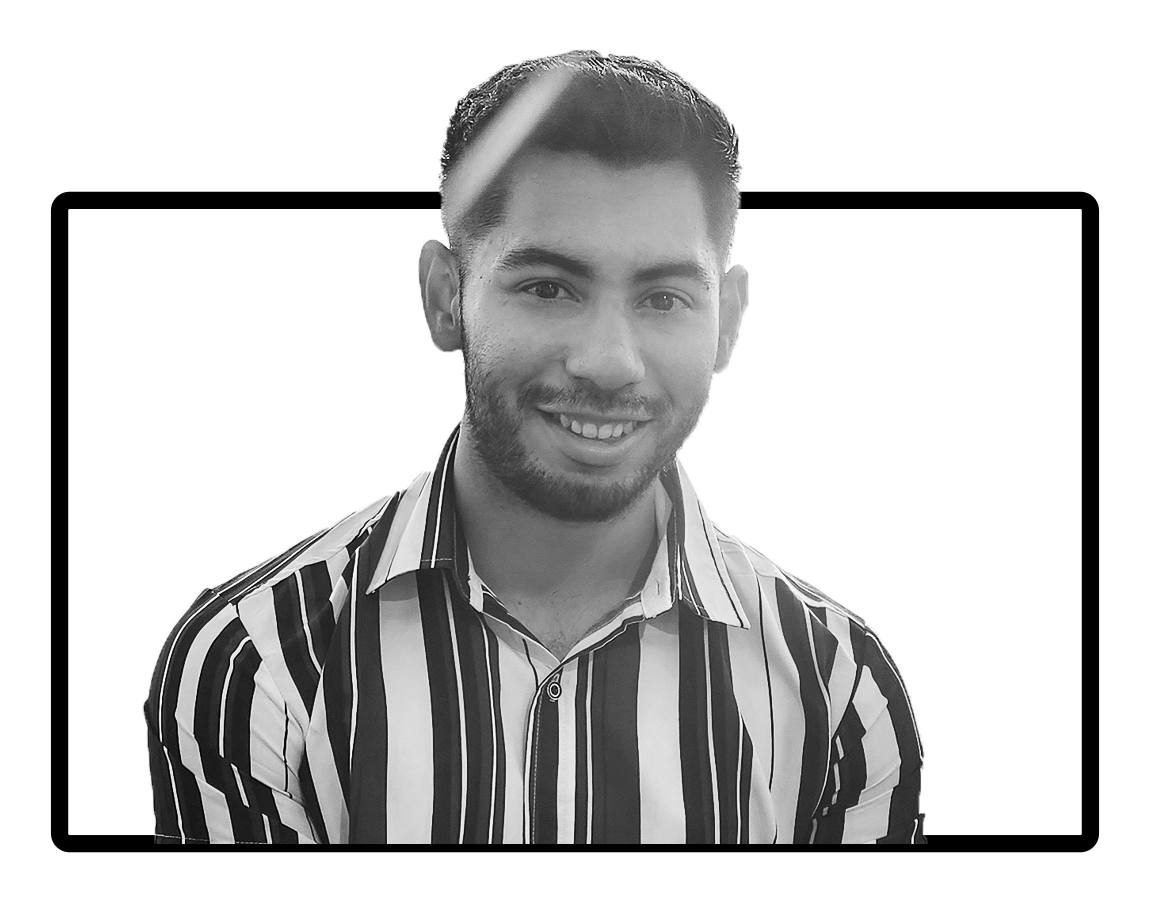
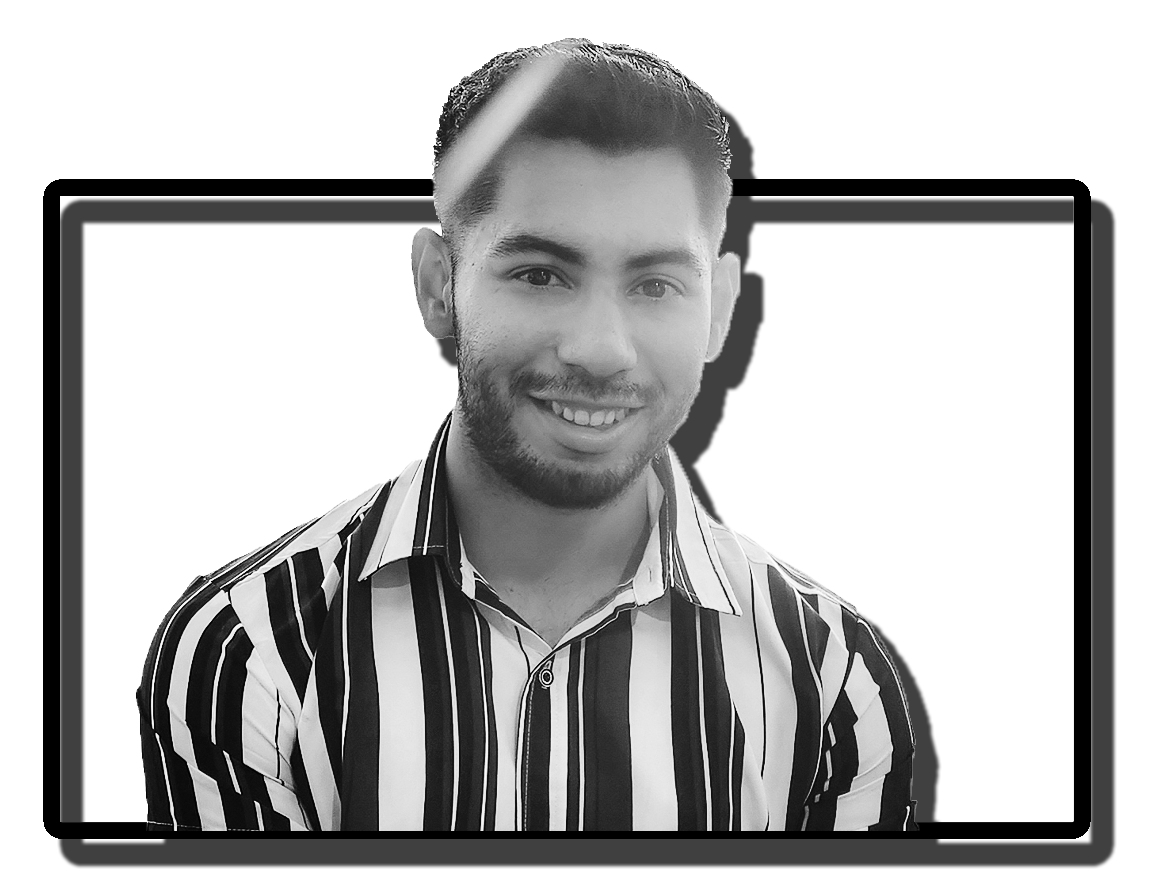
add contact form to contact section

Changed region(s): [[0.0304, 0.0309, 0.9739, 1.0], [0.4565, 0.5554, 0.487, 0.5863]]

diff --git a/src/Components/Contact/Contact.js b/src/Components/Contact/Contact.js
@@ -1,15 +1,54 @@
 import "../Contact/Contact.css";
-import React from "react";
-import { Typography, Grid, Button } from "@mui/material";
+import React, { useState } from "react";
+import { Grid, Button } from "@mui/material";
 import LinkedInIcon from "@mui/icons-material/LinkedIn";
 import GitHubIcon from "@mui/icons-material/GitHub";
 import EmailIcon from "@mui/icons-material/Email";
+import emailjs from "emailjs-com";
 
 export default function Contact() {
+  const [formData, setFormData] = useState({
+    name: "",
+    email: "",
+    message: "",
+  });
+
+  const handleSubmit = (e) => {
+    e.preventDefault();
+
+    // Replace with your Email.js service ID, template ID, and user ID
+    const serviceID = "your_email_service_id";
+    const templateID = "your_template_id";
+    const userID = "your_user_id";
+
+    emailjs
+      .send(serviceID, templateID, formData, userID)
+      .then((response) => {
+        console.log("Email sent successfully:", response);
+      })
+      .catch((error) => {
+        console.error("Email sending failed:", error);
+      });
+
+    // Clear the form fields after submission
+    setFormData({
+      name: "",
+      email: "",
+      message: "",
+    });
+  };
+
+  const handleInputChange = (e) => {
+    setFormData({
+      ...formData,
+      [e.target.name]: e.target.value,
+    });
+  };
+
   return (
     <div className="main">
       <section className="contact">
-        <Typography>CONNECT WITH ME</Typography>
+        <h1>CONNECT WITH ME</h1>
         <Grid className="socials">
           <Button
             style={{ transform: "scale(3)" }}
@@ -30,6 +69,36 @@ export default function Contact() {
             target="_blank"
           />
         </Grid>
+
+        <div className="contact-form">
+          <h2>Contact Me</h2>
+          <form onSubmit={handleSubmit}>
+            <input
+              type="text"
+              name="name"
+              placeholder="Name"
+              value={formData.name}
+              onChange={handleInputChange}
+              required
+            />
+            <input
+              type="email"
+              name="email"
+              placeholder="Email"
+              value={formData.email}
+              onChange={handleInputChange}
+              required
+            />
+            <textarea
+              name="message"
+              placeholder="Message"
+              value={formData.message}
+              onChange={handleInputChange}
+              required
+            />
+            <button type="submit">Send</button>
+          </form>
+        </div>
       </section>
     </div>
   );

diff --git a/src/Components/Contact/Contact.css b/src/Components/Contact/Contact.css
@@ -7,6 +7,58 @@
   justify-content: center;
 }
 
+/* Contact Form */
+.contact-form {
+  max-width: 500px;
+  margin-top: 20px;
+  padding: 20px;
+  background: #352d2db3;
+  border: 1px solid #000000;
+  border-radius: 5px;
+}
+
+.contact-form h2 {
+  font-size: 24px;
+  margin-bottom: 20px;
+  color: rgb(165, 165, 165);
+}
+
+.contact-form input,
+.contact-form textarea {
+  width: 100%;
+  padding: 5px;
+  margin-bottom: 15px;
+  border: 1px solid #ccc;
+  border-radius: 5px;
+}
+
+.contact-form button {
+  background: #e5b76d;
+  color: #000000;
+  border: none;
+  padding: 10px 20px;
+  border-radius: 5px;
+  cursor: pointer;
+}
+
+.contact-form button:hover {
+  background: #95adc9;
+}
+
+/* Social Icons */
 .socials {
-  margin-right: 20px; /* Add right margin for spacing */
+  display: flex;
+  justify-content: space-between;
+  margin-top: 20px;
+}
+
+.socials a {
+  text-decoration: none;
+  color: #000;
+  font-size: 24px;
+  transition: color 0.3s;
+}
+
+.socials a:hover {
+  color: #007bff;
 }

diff --git a/src/Components/Home/Home.css b/src/Components/Home/Home.css
@@ -8,7 +8,7 @@
 
 .type {
   height: 2rem;
-  font-size: 20px;
+  font-size: 22px;
   padding-left: 20px;
   color: #c7d4e4;
   text-shadow: 1px -2px 2px #261510;
@@ -17,7 +17,7 @@
 .photo {
   width: 650px;
   height: auto;
-  box-shadow: 20px 20px 10px #261510;
+  /* box-shadow: 20px 20px 10px #261510; */
 }
 
 @keyframes animatedBackground {
@@ -89,10 +89,6 @@
   .home {
     /* background-color: bisque; */
     flex-direction: column;
-  }
-
-  span {
-    padding: bottom 20px;
   }
 
   .photo {
